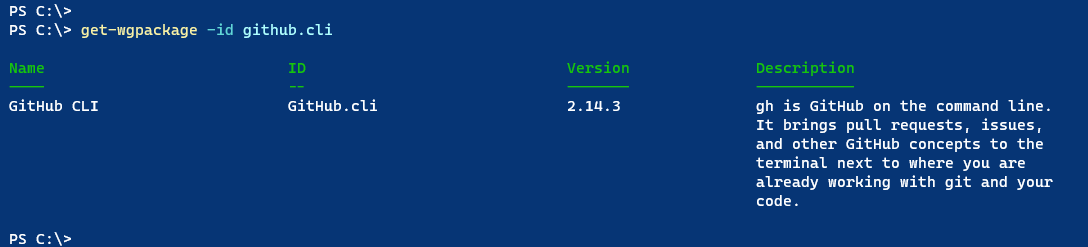
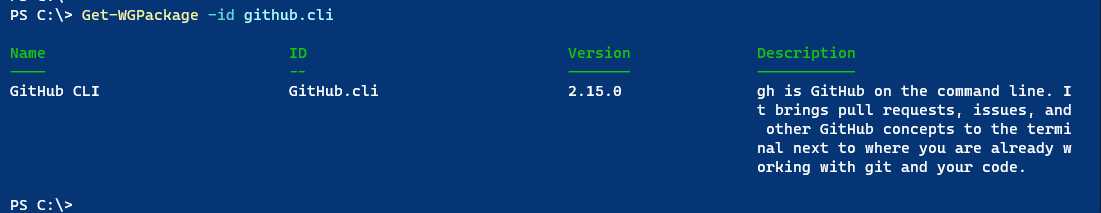
v1.6.0

diff --git a/docs/Get-WGUpgrade.md b/docs/Get-WGUpgrade.md
@@ -36,15 +36,17 @@ Use this command to get information about available winget upgrades. You can the
 ```powershell
 PS C:\> Get-WGUpgrade
 
-Name                      ID                                            Installed       Available
-----                      --                                            ---------       ---------
-Visual Studio Community   Microsoft.VisualStudio.2019.Community         16.11.10        16.11.17
-2019
-CCleaner                  Piriform.CCleaner                             6.00            6.01
-Discord                   Discord.Discord                               1.0.9003        1.0.9005
-Foxit PDF Reader          Foxit.FoxitReader                             12.0.0.12394    12.0.1.12430
-Notepad++                 Notepad++.Notepad++                           8.3.3           8.4.4
-...
+Name                                   ID                                    Installed            Available
+----                                   --                                    ---------            ---------
+Discord                                Discord.Discord                       1.0.9005             1.0.9006
+Visual Studio Community 2019           Microsoft.VisualStudio.2019.Community 16.11.18             16.11.19
+Spotify                                Spotify.Spotify                       1.1.91.824.g07f1e963 1.1.93.896.g3ae3b4f3
+VSCodium                               VSCodium.VSCodium                     1.71.1.22256         1.71.2.22258
+Camtasia                               TechSmith.Camtasia                    22.0.4.39133         22.1.1.39848
+Windows Software Development Kit       Microsoft.WindowsSDK                  10.0.22000.832       10.0.22621.1
+Microsoft SQL Server Management Studio Microsoft.SQLServerManagementStudio   18.12                18.12.1
+PowerToys (Preview)                    Microsoft.PowerToys                   0.62.0               0.62.1
+ESET Endpoint Security                 ESET.EndpointSecurity                 9.0.2046.0           9.1.2057.0
 ```
 
 Get all available updates.
@@ -54,10 +56,9 @@ Get all available updates.
 ```powershell
 PS C:\> get-wgupgrade p*
 
-Name                      ID                                            Installed       Available
-----                      --                                            ---------       ---------
-PowerToys (Preview)       Microsoft.PowerToys                           0.58.0          0.61.1
-Python 3                  Python.Python.3                               3.10.3          3.10.6
+Name                ID                  Installed Available
+----                --                  --------- ---------
+PowerToys (Preview) Microsoft.PowerToys 0.62.0    0.62.1
 ```
 
 Get upgrades with a name that begins with P.
@@ -67,14 +68,12 @@ Get upgrades with a name that begins with P.
 ```powershell
 PS C:\> Get-WGUpgrade -id micro* | Select-Object Name,Version,Available
 
-Name                                                 Version       Available
-----                                                 -------       ---------
-Visual Studio Community 2019                         16.11.10      16.11.17
-Microsoft Visual C++ 2015-2022 Redistributable (x86) 14.31.31103.0 14.32.31332.0
-Microsoft .NET SDK 3.1                               3.1.419       3.1.421
-PowerToys (Preview)                                  0.58.0        0.61.1
-Microsoft Visual C++ 2015-2022 Redistributable (x86) 14.32.31326.0 14.32.31332.0
-
+Name                                   Version        Available
+----                                   -------        ---------
+Visual Studio Community 2019           16.11.18       16.11.19
+Windows Software Development Kit       10.0.22000.832 10.0.22621.1
+Microsoft SQL Server Management Studio 18.12          18.12.1
+PowerToys (Preview)                    0.62.0         0.62.1
 ```
 
 Get upgrades by ID that starts with "micro". Note that the actual object property name, "Version", differs from the formatted column header of "Installed."

diff --git a/docs/Get-WGPackage.md b/docs/Get-WGPackage.md
@@ -48,11 +48,9 @@ This command is a PowerShell wrapper around winget.cmd that will get a package a
 ```powershell
 PS C:\> Get-WGPackage -name "Foxit PDF Reader"
 
-Name             ID                Version      Description
-----             --                -------      -----------
-Foxit PDF Reader Foxit.FoxitReader 11.2.1.53537 Foxit is a powerful PDF reader
-                                                for viewing, filling out forms
-                                                and more.
+Name                      ID                             Version         Description
+----                      --                             -------         -----------
+Foxit PDF Reader          Foxit.FoxitReader         12.0.1.12430         Foxit is a powerful PDF reader for viewing, filling out forms and more.
 ```
 
 Get a package by its name.
@@ -62,20 +60,22 @@ Get a package by its name.
 ```powershell
 PS C:\> Get-WGPackage -id "Microsoft.Powershell.Preview" | Select-Object *
 
-Name                  : PowerShell Preview
-ID                    : Microsoft.PowerShell.Preview
-Version               : 7.3.0.3
-Publisher             : Microsoft Corporation
-Publisher URL         : https://github.com/PowerShell/PowerShell
-Publisher Support URL : https://github.com/PowerShell/PowerShell/issues
-Author                : Microsoft Corporation
-Moniker               : pwsh-preview
-Description           : PowerShell is a cross-platform (Windows, Linux, and
-                        macOS) automation and configuration tool/framework that
-                        works well with your existing tools and is optimized
-                        for dealing with structured data (e.g. JSON, CSV, XML,
-                        etc.), REST APIs, and object models.
-Homepage              : https://microsoft.com/PowerShell
+Moniker             : pwsh-preview
+Description         : PowerShell is a cross-platform Windows, Linux, and macOS
+                      automation and configuration tool/frame work that works
+                      well with your existing tools and is optimized for
+                      dealing with structured data e.g. JSON, CSV, XML, etc.,
+                      REST APIs, and object models.
+Author              : Microsoft Corporation
+Publisher           : Microsoft Corporation
+PublisherUrl        : https://github.com/PowerShell/PowerShell
+PublisherSupportUrl : https://github.com/PowerShell/PowerShell/issues
+Homepage            : https://microsoft.com/PowerShell
+Name                : PowerShell Preview
+ID                  : Microsoft.PowerShell.Preview
+Version             : 7.3.7.0
+Source              : winget
+Computername        : WIN11DESK
 ```
 
 The output is a rich object.
@@ -88,8 +88,8 @@ PS C:\> winget search --tag powerbi | Get-WGPackage | Select-Object Name,ID,Vers
 
 Name                      ID                  Version
 ----                      --                  -------
-DAX Studio                DaxStudio.DaxStudio 2.17.3.683
-Microsoft PowerBI Desktop Microsoft.PowerBI   2.102.845.0
+Microsoft PowerBI Desktop Microsoft.PowerBI   2.109.642.0
+DAX Studio                DaxStudio.DaxStudio 3.0.0.725
 ```
 
 You can pipe the results of a winget search command to this function.

diff --git a/README.md b/README.md
@@ -47,26 +47,29 @@ This command is a PowerShell wrapper aroung winget.cmd that will get a package a
 The command has a default table view but the output object has other properties you might want to use.
 
 ```text
-Name                  : GitHub CLI
-ID                    : GitHub.cli
-Version               : 2.14.3
-Publisher             : GitHub, Inc.
-Publisher URL         : https://github.com
-Publisher Support URL : https://help.github.com/en
-Author                : GitHub, Inc.
-Moniker               : gh
-Description           : gh is GitHub on the command line. It brings pull requests, issues, and other GitHub concepts
-                        to the terminal next to where you are already working with git and your code.
-Homepage              : https://github.com/cli/cli
+Moniker             : gh
+Description         : gh is GitHub on the command line. It brings pull
+                      requests, issues, and other GitHub concepts to
+                      the terminal next to where you are already working with git and your code.
+Author              : GitHub, Inc.
+Publisher           : GitHub, Inc.
+PublisherUrl        : https://github.com
+PublisherSupportUrl : https://help.github.com/en
+Homepage            : https://github.com/cli/cli
+Name                : GitHub CLI
+ID                  : GitHub.cli
+Version             : 2.15.0
+Source              : winget
+Computername        : WIN11DESK
 ```
 
-The command typically gets a single package, but you can pipe a winget search command to it.
+The command typically gets a single package, but you can pipe a `winget search` command to it.
 
 ![get winget package search](images/get-wgpackage-2.png)
 
 ## [Get-WGInstalled](docs/Get-WGInstalled.md)
 
-This command will get a list of all packages installed with winget. These will be packages with winget as the source. Here's a sample of the default output.
+This command will get a list of all packages installed with `winget`. These will be packages with winget as the source. Here's a sample of the default output.
 
 ![installed](images/get-wginstalled.png)
 

diff --git a/Changelog.md b/Changelog.md
@@ -1,5 +1,15 @@
 # Changelog for WingetTools
 
+## v1.6.0
+
++ Added missing online help links.
++ Added localized data for `fr-FR`. This needs to be validated by someone running this culture as I'm not sure exactly what Winget will return.
++ Modified code to filter out extended ASCII characters when parsing YAML content.
++ Merged [PR #10](https://github.com/jdhitsolutions/WingetTools/pull/10) Thank you @Zephyrusg.
++ Modified conversion code to strip out Release Notes since that section often causes yaml conversion problems and it isn't being used.
++ Updated help.
++ Updated `README.md`.
+
 ## v1.5.0
 
 + Revised `Get-WGInstalled` to better handle non-English culture. [Issue #8](https://github.com/jdhitsolutions/WingetTools/issues/8)
